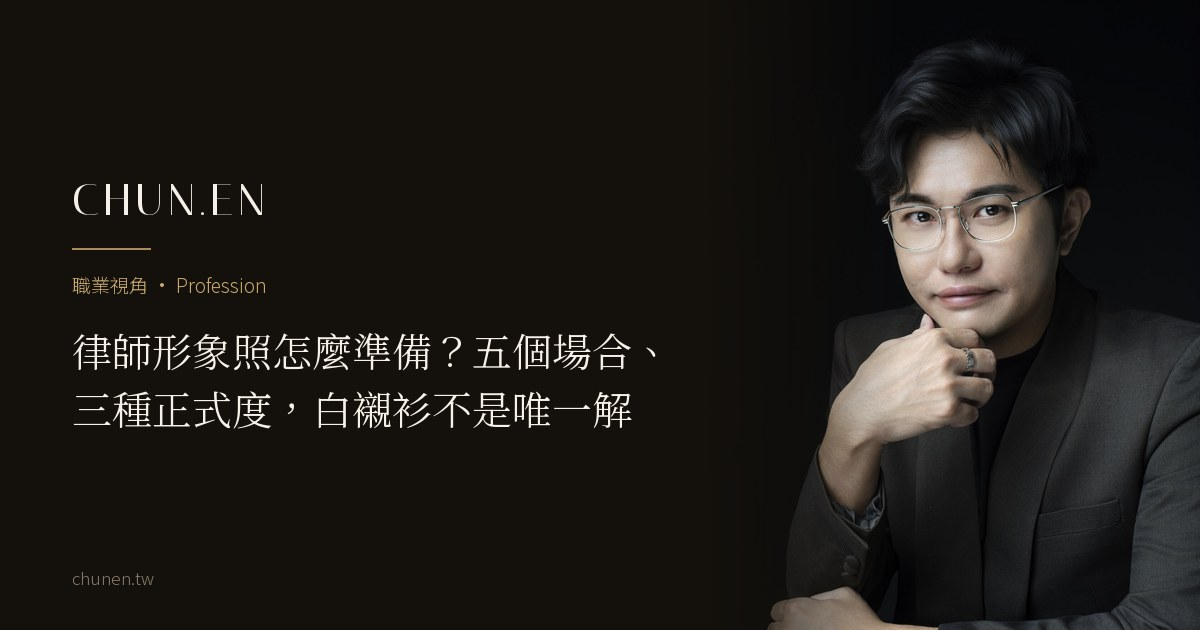
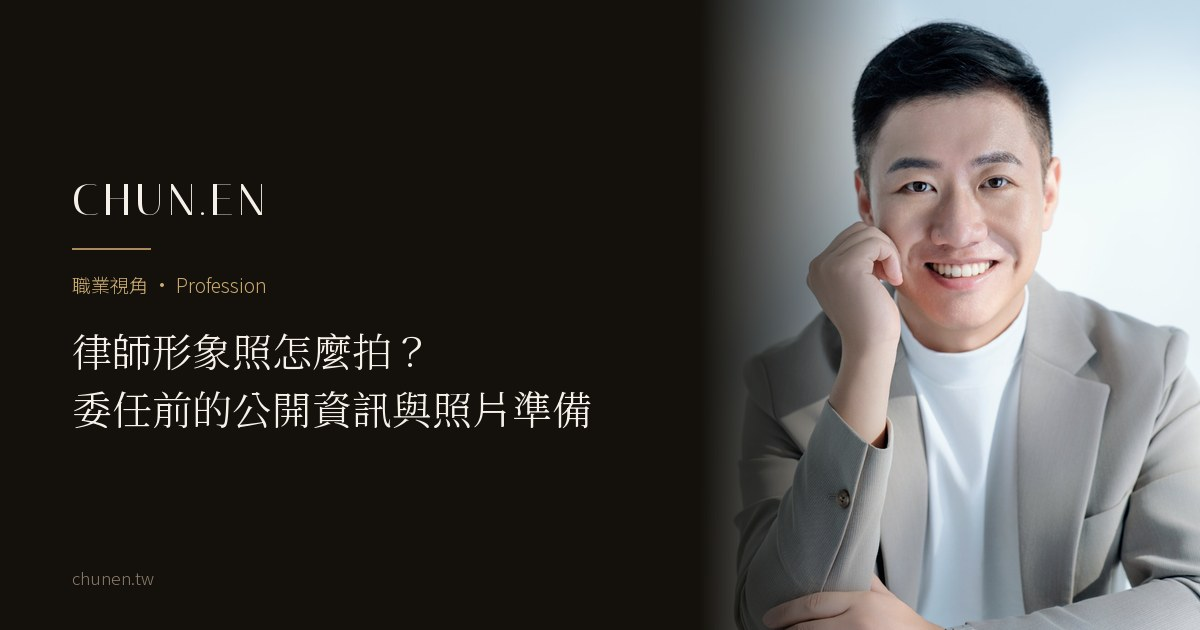
審稿預覽（noindex）：律師形象照主圖與分享卡（user 選 B）

diff --git a/journal/lawyer-portrait-guide.html b/journal/lawyer-portrait-guide.html
@@ -13,14 +13,16 @@
   <link rel="canonical" href="https://chunen.tw/journal/lawyer-portrait-guide.html" />
   <meta property="og:title" content="律師形象照怎麼拍？委任前的公開資訊與照片準備" />
   <meta property="og:description" content="律師大多穿商務套裝，放在事務所官網上看起來都很像。本文整理律師形象照的常見困擾、要呈現什麼、律師袍要不要拍、使用場合與正式程度、推展業務規範的邊界，以及 CHUN.EN 的拍攝價格。" />
-  <meta property="og:image" content="https://chunen.tw/assets/img/og-card.jpg" />
+  <meta property="og:image" content="https://chunen.tw/assets/og/lawyer-portrait-guide-og.jpg" />
+  <meta property="og:image:width" content="1200" />
+  <meta property="og:image:height" content="630" />
   <meta property="og:url" content="https://chunen.tw/journal/lawyer-portrait-guide.html" />
   <meta property="og:type" content="article" />
   <meta property="og:locale" content="zh_TW" />
   <meta name="twitter:card" content="summary_large_image" />
   <meta name="twitter:title" content="律師形象照怎麼拍？委任前的公開資訊與照片準備" />
   <meta name="twitter:description" content="律師大多穿商務套裝，放在事務所官網上看起來都很像。本文整理律師形象照的常見困擾、要呈現什麼、律師袍要不要拍、使用場合與正式程度、推展業務規範的邊界，以及 CHUN.EN 的拍攝價格。" />
-  <meta name="twitter:image" content="https://chunen.tw/assets/img/og-card.jpg" />
+  <meta name="twitter:image" content="https://chunen.tw/assets/og/lawyer-portrait-guide-og.jpg" />
   <link rel="preconnect" href="https://fonts.googleapis.com" />
   <link rel="preconnect" href="https://fonts.gstatic.com" crossorigin />
   <link href="https://fonts.googleapis.com/css2?family=Italiana&family=Cormorant+Garamond:ital,wght@0,400;0,500;0,600;1,400;1,500&family=Noto+Serif+TC:wght@300;400&family=Noto+Sans+TC:wght@300;400;500&display=swap" rel="stylesheet" />
@@ -75,7 +77,7 @@
 
     <div class="wrap article-wrap">
       <div class="jcard-media rv" style="aspect-ratio: auto; width: auto; max-width: 620px; margin: 0 auto clamp(2.5rem, 6vh, 4rem);">
-        <div class="review-box" style="border:1px dashed var(--gold-light);padding:1rem 1.2rem;margin:1.8rem 0;font-size:.92em;line-height:1.8;color:var(--paper-dim);"><strong style="color:var(--gold-light);">【審稿用，上站前移除】</strong><br>主圖待定（候選見審閱稿）</div>
+        <picture style="display:block"><source type="image/webp" srcset="../assets/gallery/journal/lawyer-portrait-guide-hero-v1-760.webp 760w, ../assets/gallery/journal/lawyer-portrait-guide-hero-v1-1240.webp 1240w" sizes="(max-width: 700px) calc(100vw - 40px), 620px" /><img src="../assets/gallery/journal/lawyer-portrait-guide-hero-v1-1400.jpg" alt="穿淺灰西裝外套與白色上衣，手托臉頰微笑的男性形象照" style="width:100%;height:auto;display:block;" width="1400" height="2100" fetchpriority="high" /></picture>
       </div>
 
       <div class="keypoints rv">
@@ -210,7 +212,7 @@
     "@type": "Article",
     "headline": "律師形象照怎麼拍？委任前的公開資訊與照片準備",
     "description": "律師形象照會和事務所介紹、學經歷與文章一起被看見。本文整理律師形象照的使用場合、服裝與正式程度、推展業務規範的邊界，以及 CHUN.EN 的拍攝價格與準備方式。",
-    "image": "https://chunen.tw/assets/img/og-card.jpg",
+    "image": "https://chunen.tw/assets/gallery/journal/lawyer-portrait-guide-hero-v1-1400.jpg",
     "author": {
       "@type": "Person",
       "@id": "https://chunen.tw/author/zoey-wu.html#zoey",
